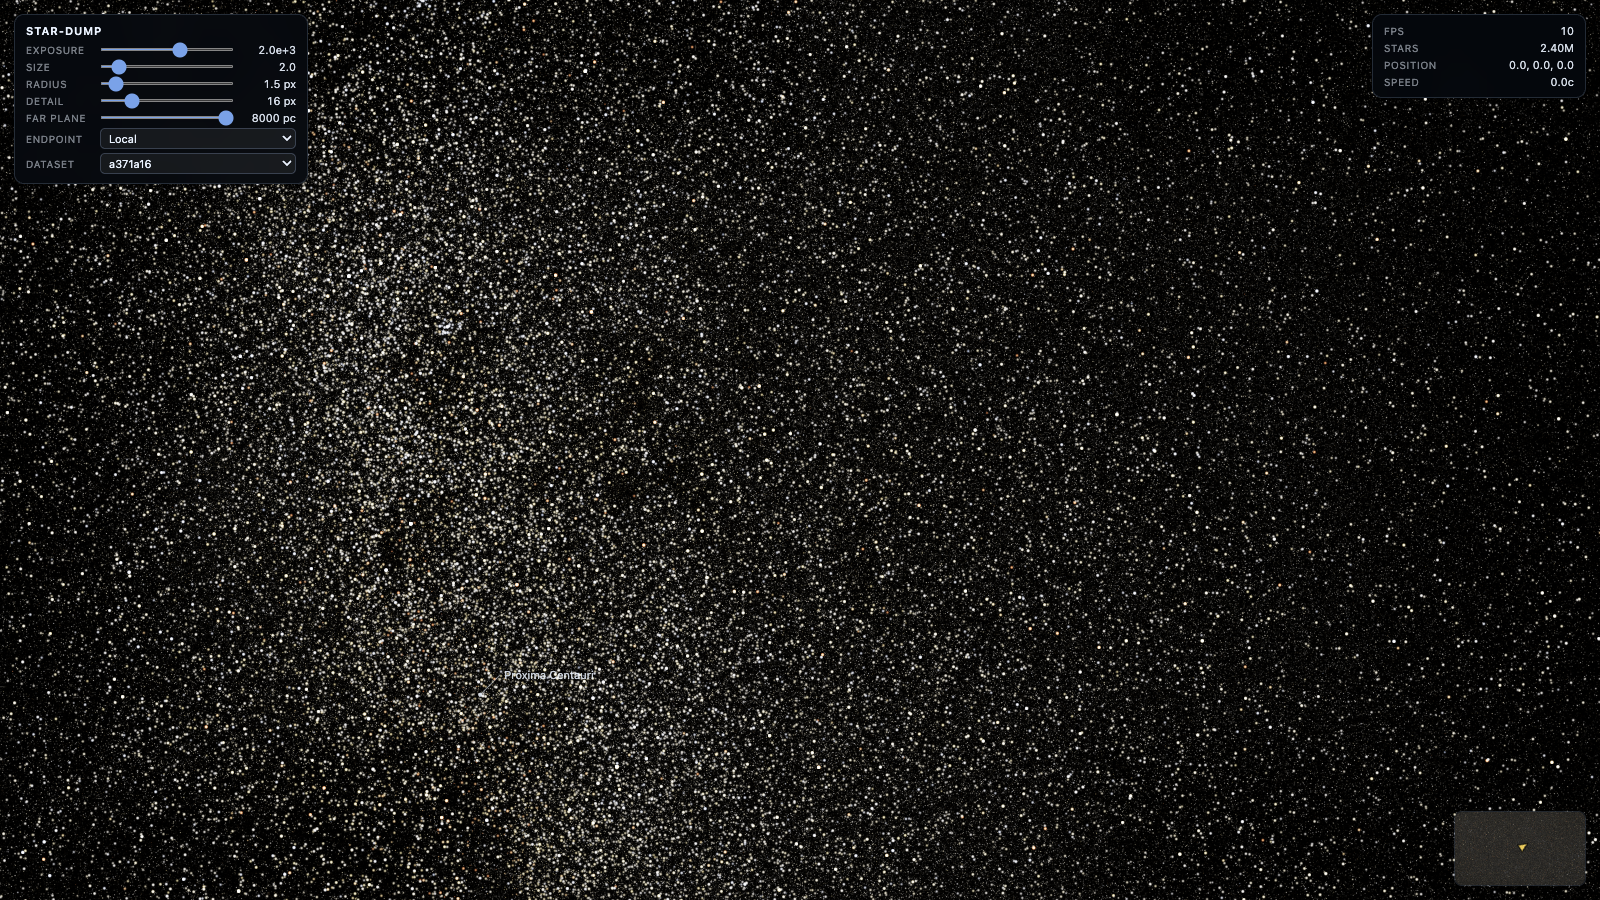
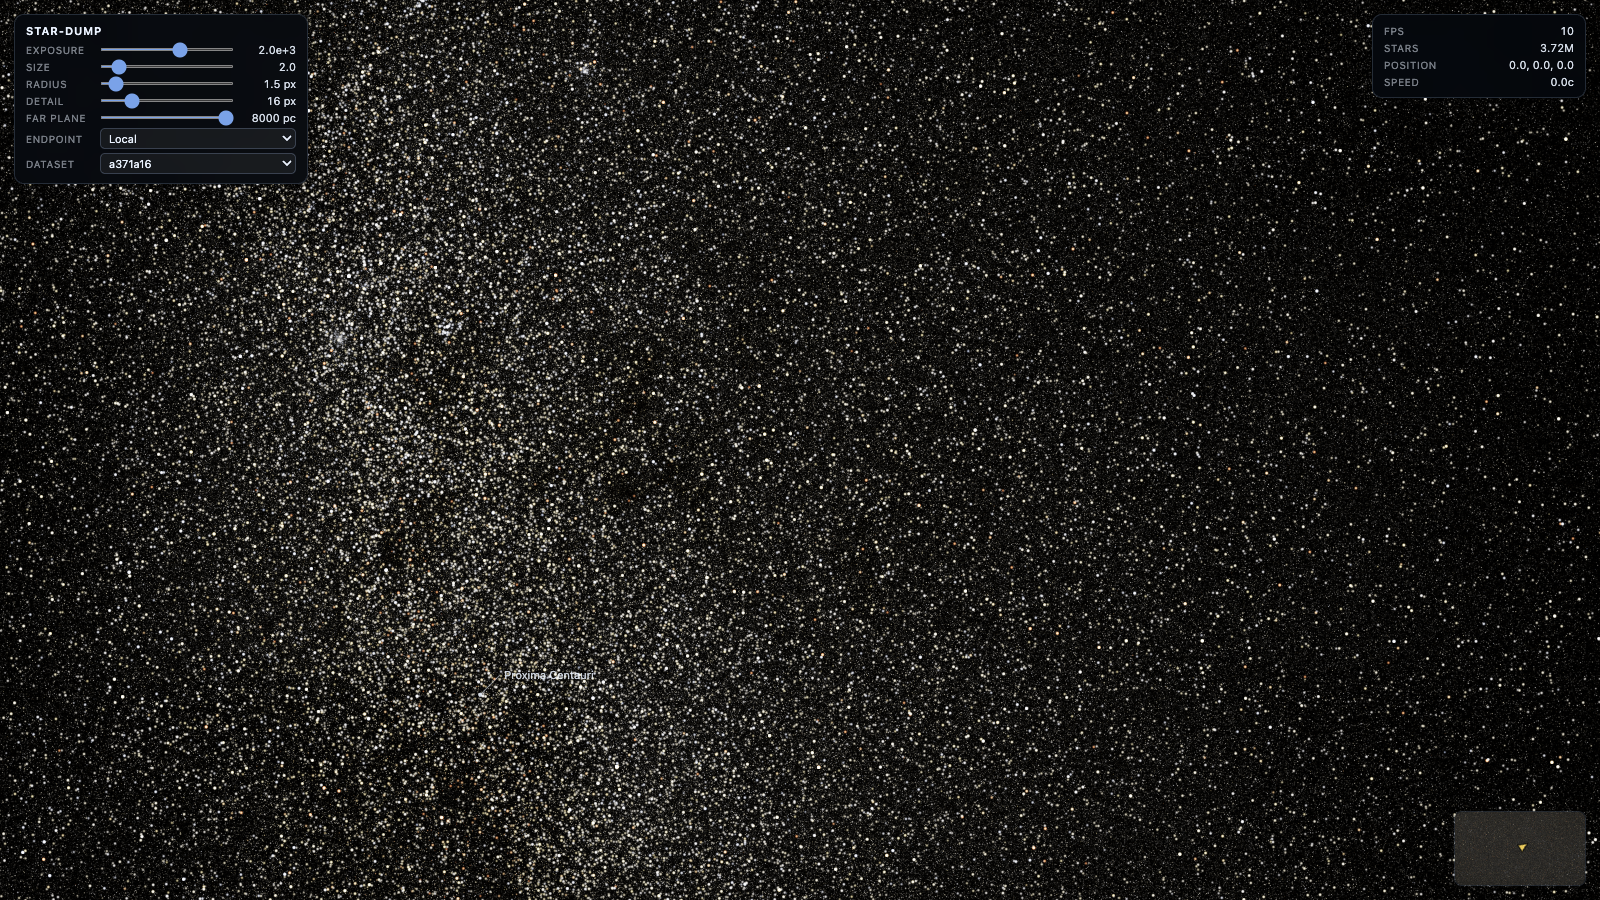
back out the off-screen base layer
It made the picture glitchy and left some camera angles visibly short of
stars, with detail popping in on a small turn. Refinement is back to one
budget spent strictly largest-footprint-first on what is inside the
frustum, as it was before.

The HUD, minimap and points of interest are unaffected.

diff --git a/viewer/src/lod.ts b/viewer/src/lod.ts
@@ -4,11 +4,6 @@
 // every remaining node is smaller than the pixel threshold or the point budget
 // is spent. Everything left unrefined is a cut node drawn from its own
 // subsample, so the budget caps what reaches the GPU wherever the camera sits.
-//
-// Nodes outside the frustum are refined too, but only down to a coarser
-// threshold. That base layer is never drawn; it exists so that turning the
-// camera lands on data that is already resident, coarse at first and refining
-// within a pass or two, instead of on a hole.
 
 import { Frustum, sphereVisible } from "./frustum";
 import { MaxHeap } from "./heap";
@@ -20,41 +15,21 @@ export type Location = { batch: number; first: number };
 
 export type Locate = (node: number) => Location | undefined;
 
-/** A node whose points the viewer wants, and how badly. */
-export type Wanted = { node: number; priority: number };
+/** A node whose points the viewer wants, and its screen footprint in pixels. */
+export type Wanted = { node: number; footprint: number };
 
 export type View = { eye: Vec3; frustum: Frustum; pixelsPerRadian: number };
-
-export type Limits = {
-  pixelThreshold: number;
-  /** Points the visible cut may use. */
-  pointBudget: number;
-  /** Points the off-screen base layer may use. */
-  baseBudget: number;
-};
 
 /** Per-node outcome of a selection pass. */
 const CUT      = 0;
 const EXPANDED = 1;
-
-/** How much coarser than the visible cut the off-screen base layer is kept. */
-const OFFSCREEN_FACTOR = 4;
-
-/** Base layer nodes queue behind everything on screen, however large. */
-const OFFSCREEN_PRIORITY = 0.01;
+const CULLED   = 2;
 
 export type Cut = {
   wanted: Wanted[];
-  /** CUT or EXPANDED, per node. */
+  /** One CUT / EXPANDED / CULLED entry per node. */
   state: Uint8Array;
-  /** 1 for nodes inside the frustum, the only ones that get drawn. */
-  visible: Uint8Array;
 };
-
-export function emptyCut(sc: Starcloud): Cut {
-  const nodes = sc.childMask.length;
-  return { wanted: [], state: new Uint8Array(nodes), visible: new Uint8Array(nodes) };
-}
 
 const SQRT3 = Math.sqrt(3);
 
@@ -67,7 +42,7 @@ function footprint(sc: Starcloud, node: number, view: View): number {
   return (half / distance) * view.pixelsPerRadian;
 }
 
-function inFrustum(sc: Starcloud, node: number, view: View): boolean {
+function visible(sc: Starcloud, node: number, view: View): boolean {
   return sphereVisible(
     view.frustum,
     sc.center[node * 3], sc.center[node * 3 + 1], sc.center[node * 3 + 2],
@@ -75,57 +50,52 @@ function inFrustum(sc: Starcloud, node: number, view: View): boolean {
   );
 }
 
-export function selectCut(sc: Starcloud, view: View, limits: Limits, cut: Cut): Cut {
-  const { wanted, state, visible } = cut;
-  wanted.length = 0;
+export function selectCut(
+  sc: Starcloud,
+  view: View,
+  pixelThreshold: number,
+  pointBudget: number,
+  state: Uint8Array,
+): Cut {
   state.fill(CUT);
-  visible.fill(0);
-  visible[0] = 1;
+  const wanted: Wanted[] = [];
   const heap = new MaxHeap();
 
-  const want = (node: number, seen: boolean) => {
+  const want = (node: number) => {
     const size = footprint(sc, node, view);
-    wanted.push({ node, priority: seen ? size : size * OFFSCREEN_PRIORITY });
+    wanted.push({ node, footprint: size });
     heap.push(node, size);
   };
 
-  want(0, true);
-  const spent = [sc.pointCount[0], 0];
-  const budget = [limits.pointBudget, limits.baseBudget];
+  want(0);
+  let points = sc.pointCount[0];
   while (heap.size > 0) {
     const node = heap.pop();
     const mask = sc.childMask[node];
     const own = sc.pointCount[node];
     if (mask === 0) continue;
     // A node with no subsample of its own carries no image; always refine it.
-    if (own > 0 && footprint(sc, node, view) < limits.pixelThreshold) continue;
+    if (own > 0 && footprint(sc, node, view) < pixelThreshold) continue;
 
     const first = sc.firstChild[node];
     const children = childCount(mask);
-    let keep = 0;
     let childPoints = 0;
     for (let i = 0; i < children; i++) {
-      const child = first + i;
-      const seen = inFrustum(sc, child, view);
-      if (!seen && footprint(sc, child, view) < limits.pixelThreshold * OFFSCREEN_FACTOR) {
+      if (!visible(sc, first + i, view)) {
+        state[first + i] = CULLED;
         continue;
       }
-      visible[child] = seen ? 1 : 0;
-      keep |= 1 << i;
-      childPoints += sc.pointCount[child];
+      childPoints += sc.pointCount[first + i];
     }
-    // On screen and off screen draw on separate budgets, so a busy view behind
-    // the camera can never crowd out detail in front of it.
-    const purse = visible[node] === 1 ? 0 : 1;
-    if (spent[purse] + childPoints - own > budget[purse]) continue;
+    if (points + childPoints - own > pointBudget) break;
 
-    spent[purse] += childPoints - own;
+    points += childPoints - own;
     state[node] = EXPANDED;
     for (let i = 0; i < children; i++) {
-      if (keep & (1 << i)) want(first + i, visible[first + i] === 1);
+      if (state[first + i] !== CULLED) want(first + i);
     }
   }
-  return cut;
+  return { wanted, state };
 }
 
 /** Joins ranges that are adjacent within the same batch into single draws. */
@@ -159,7 +129,7 @@ export function collectDraws(sc: Starcloud, cut: Cut, locate: Locate): Int32Arra
   }
 
   function emit(node: number): boolean {
-    if (cut.visible[node] === 0) return true;
+    if (cut.state[node] === CULLED) return true;
     if (cut.state[node] === CUT) return sc.pointCount[node] === 0 || drawSelf(node);
     const mark = ranges.length;
     const first = sc.firstChild[node];

diff --git a/viewer/src/loader.worker.ts b/viewer/src/loader.worker.ts
@@ -2,19 +2,18 @@
 // page thread only ever binds buffers and draws.
 
 import { Frustum } from "./frustum";
-import { Cut, Limits, View, collectDraws, emptyCut, selectCut } from "./lod";
+import { View, collectDraws, selectCut } from "./lod";
 import { FromWorker, ToWorker } from "./protocol";
 import { Cache, createCache } from "./residency";
 import { Starcloud } from "./starcloud";
 import { fetchStarcloud } from "./starcloud_io";
 
 const POINT_BUDGET = 4_000_000;
-const BASE_BUDGET  = 1_500_000;
 const SELECT_INTERVAL_MS = 100;
 
 let starcloud: Starcloud | null = null;
 let cache: Cache;
-let cut: Cut;
+let state: Uint8Array;
 
 let stale = true;
 let selectedFrustum: Frustum = new Float32Array(24);
@@ -27,7 +26,7 @@ function post(message: FromWorker, transfer: Transferable[] = []): void {
 
 async function init(url: string): Promise<void> {
   const sc = await fetchStarcloud(url);
-  cut = emptyCut(sc);
+  state = new Uint8Array(sc.childMask.length);
   cache = createCache(
     sc, url,
     (batch, data) => { post({ type: "upload", batch, data }, [data]); stale = true; },
@@ -38,8 +37,8 @@ async function init(url: string): Promise<void> {
   post({ type: "ready", halfExtentPc: sc.halfExtentPc });
 }
 
-function refresh(sc: Starcloud, view: View, limits: Limits): void {
-  selectCut(sc, view, limits, cut);
+function refresh(sc: Starcloud, view: View, pixelThreshold: number): void {
+  const cut = selectCut(sc, view, pixelThreshold, POINT_BUDGET, state);
   cache.update(cut.wanted);
   const ranges = collectDraws(sc, cut, cache.locate);
   let stars = 0;
@@ -67,9 +66,5 @@ self.addEventListener("message", (event: MessageEvent<ToWorker>) => {
   selectedAt = now;
   selectedFrustum = message.frustum;
   selectedThreshold = message.pixelThreshold;
-  refresh(starcloud, message, {
-    pixelThreshold: message.pixelThreshold,
-    pointBudget: POINT_BUDGET,
-    baseBudget: BASE_BUDGET,
-  });
+  refresh(starcloud, message, message.pixelThreshold);
 });

diff --git a/viewer/src/residency.ts b/viewer/src/residency.ts
@@ -11,11 +11,11 @@ import { fetchRange } from "./starcloud_io";
 
 const MAX_BATCH_BYTES = 1 << 20;
 const MAX_REQUESTS    = 12;
-const MEMORY_BUDGET   = 256 << 20;
+const MEMORY_BUDGET   = 192 << 20;
 
 type Batch = { id: number; nodes: number[]; bytes: number; lastWanted: number };
 
-type Run = { nodes: number[]; priority: number; bytes: number };
+type Run = { nodes: number[]; footprint: number; bytes: number };
 
 export type Cache = {
   locate: Locate;
@@ -85,15 +85,15 @@ export function createCache(
       .sort((a, b) => sc.pointFirst[a.node] - sc.pointFirst[b.node]);
 
     const grouped: Run[] = [];
-    for (const { node, priority } of missing) {
+    for (const { node, footprint } of missing) {
       const bytes = sc.pointCount[node] * POINT_BYTES;
       const run = grouped[grouped.length - 1];
       if (run && adjacent(run, node) && run.bytes + bytes <= MAX_BATCH_BYTES) {
         run.nodes.push(node);
         run.bytes += bytes;
-        run.priority = Math.max(run.priority, priority);
+        run.footprint = Math.max(run.footprint, footprint);
       } else {
-        grouped.push({ nodes: [node], priority, bytes });
+        grouped.push({ nodes: [node], footprint, bytes });
       }
     }
     return grouped;
@@ -103,7 +103,7 @@ export function createCache(
     const slots = MAX_REQUESTS - requests;
     if (slots <= 0) return;
     // Biggest on screen first, which also means shallow nodes before deep ones.
-    const queue = runs(wanted).sort((a, b) => b.priority - a.priority);
+    const queue = runs(wanted).sort((a, b) => b.footprint - a.footprint);
     for (let i = 0; i < slots && i < queue.length; i++) void load(queue[i].nodes);
   }
 

diff --git a/README.md b/README.md
@@ -150,9 +150,6 @@ free of any repacking. Buffers nobody wants any more are freed
 least-recently-wanted first once the memory budget is exceeded. Where a
 refined subtree has not arrived yet the ancestor's own subsample is drawn in
 its place, so moving through space fills detail in rather than punching holes.
-Nodes outside the frustum are refined too, four times coarser and never drawn,
-on a budget of their own: that shallow full-sky layer is what turning the
-camera lands on while the detail streams in.
 
 ![Viewer](screenshots/viewer.png)
 
